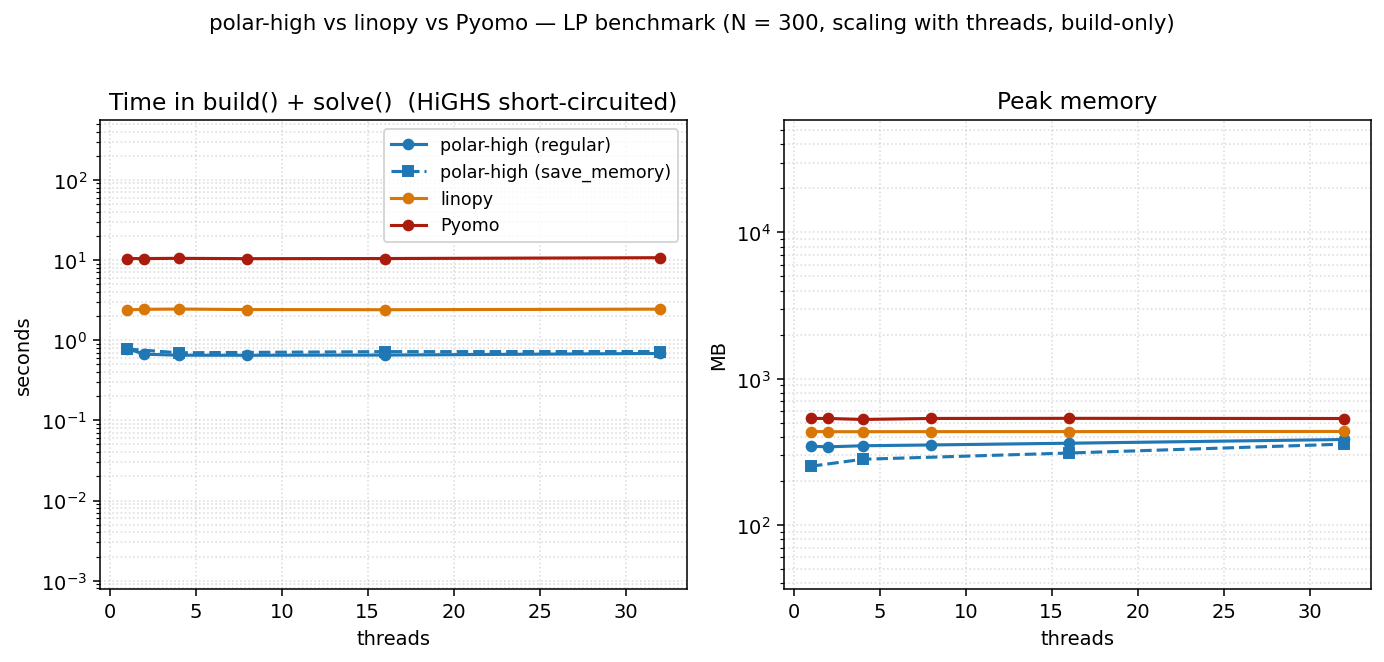
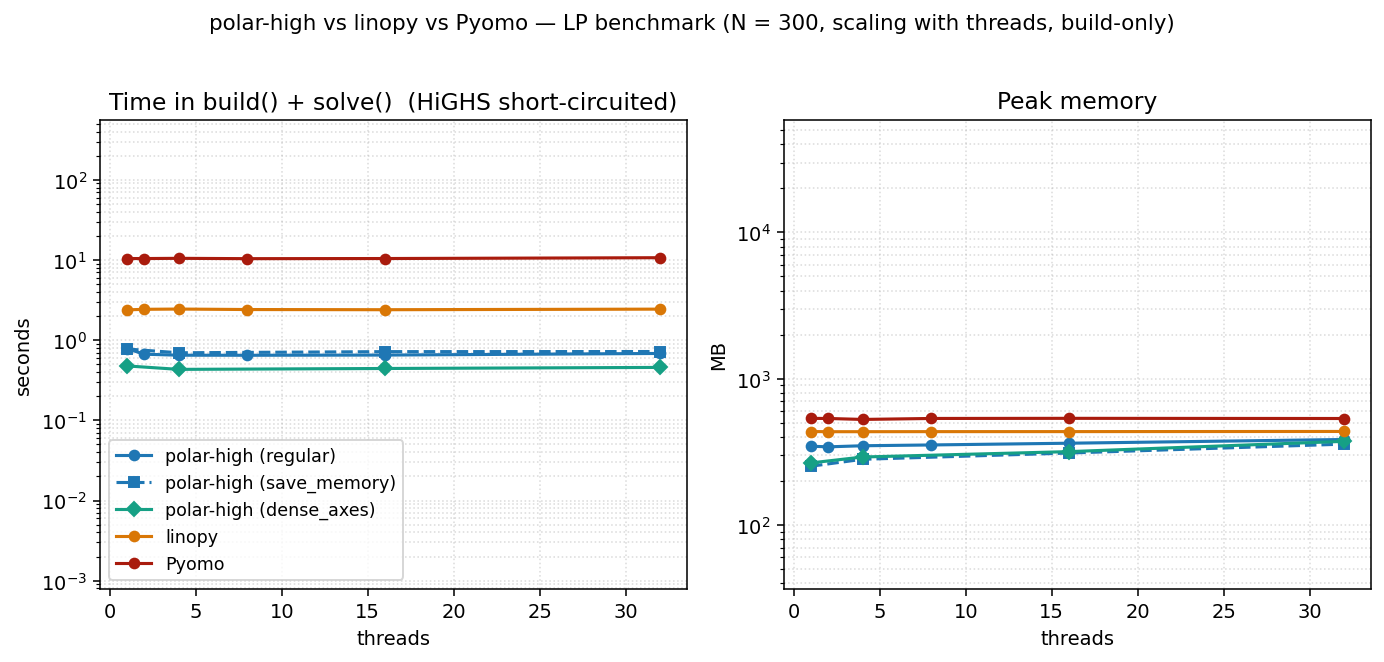
docs(benchmark): refresh polar regular + plots against v2.4.1
polar regular and polar_da measured at v2.4.1; polar_sm, linopy and
Pyomo numbers stay at their previous values (re-runs queued
separately). The most visible shift is at dense full-solve N=3000
where the v2.4.x autoscale memory-bounding work lowered polar
regular's peak from 38.1 GB to 33.2 GB (post-trim 6.6 GB → 1.0 GB)
at a small wall-time cost (135 s → 148 s). Other cells move within
±5 %, and the save_memory trade-off shape is refreshed accordingly
(+59 % time / −15 % peak on the full HiGHS solve at this N=3000
cell, down from the previously published +75 % / −26 %).

Network threading on polar regular: speedup at N=10000 ticks up from
1.35× to 1.40× (single-thread 53.8 s → 53.7 s, 32-thread 40.0 s →
38.5 s); intermediate-N rows refreshed similarly.

polar_da (dense_axes contract) lands within run-to-run noise of
polar regular at every headline cell on these specific models, so
the plots show it overlapping polar regular and no separate row is
added to the tables. The line is kept in the figures for
transparency.

diff --git a/docs/compare/benchmark.md b/docs/compare/benchmark.md
@@ -42,7 +42,7 @@ shows both side by side. At N=3000 (an 18 M-variable LP):
 
 | | total time | peak | p50 during solve | post-trim |
 |---|---:|---:|---:|---:|
-| polar-high (regular, default) | 86 s | 16.1 GB | 10.9 GB | 5.9 GB |
+| polar-high (regular, default) | 87 s | 16.4 GB | 10.9 GB | 6.2 GB |
 | polar-high (save_memory=True) | 131 s | 15.1 GB | 10.3 GB | 6.2 GB |
 | linopy (io_api="lp") | 300 s | 23.7 GB | 2.0 GB | 6.0 GB |
 | Pyomo | caps at N=1000 | 4.6 GB at N=1000 | 3.8 GB at N=1000 | 1.9 GB at N=1000 |
@@ -52,8 +52,8 @@ accounting the OOM killer would use against a memory budget. See
 *Measuring memory* below for the column choices. Both polar modes
 finish 2.3×–3.5× faster than linopy on this column with peak ~30 %
 below linopy; on this cell the `regular` vs `save_memory` swap costs
-+52 % time for −6 % peak, a much milder shape than on the full HiGHS
-solve where it's +75 % time for −26 % peak (see *Two modes*). Pyomo's
++51 % time for −8 % peak, a much milder shape than on the full HiGHS
+solve where it's +59 % time for −15 % peak (see *Two modes*). Pyomo's
 per-coefficient Python overhead makes it unable to keep up past
 N≈1000 in our 10-minute timeout.
 
@@ -81,9 +81,9 @@ final `h.run()`:
    MPS file, the original `Highs` instance is cleared and disposed,
    `malloc_trim(0)` is called to return glibc's freed arenas to the
    OS, and a fresh `Highs` is created and `readModel`'d from the
-   file. This costs ~+100 s wall time at N=3000 dense full-solve
+   file. This costs ~+90 s wall time at N=3000 dense full-solve
    but eliminates the allocator slack `addRows` leaves behind when
-   fed a model incrementally — net ~10 GB lower peak in that cell.
+   fed a model incrementally — net ~5 GB lower peak in that cell.
    The spill file lands in the system temp dir (`$TMPDIR` / `/tmp`)
    by default; pass `solve(save_memory=True, tmp_dir=...)` to redirect
    it to a specific volume (e.g. the same filesystem as the workspace,
@@ -110,22 +110,22 @@ free `h.run()` re-solve from the previous basis.
 
 | cell | mode | total time | peak | p50 | post-trim |
 |---|---|---:|---:|---:|---:|
-| dense build-only N=3000 | regular | 86 s | 16.1 GB | 10.9 GB | 5.9 GB |
+| dense build-only N=3000 | regular | 87 s | 16.4 GB | 10.9 GB | 6.2 GB |
 | dense build-only N=3000 | save_memory | 131 s | 15.1 GB | 10.3 GB | 6.2 GB |
-| dense full-solve N=3000 | regular | 135 s | 38.1 GB | 14.9 GB | 6.6 GB |
+| dense full-solve N=3000 | regular | 148 s | 33.2 GB | 14.9 GB | 1.0 GB |
 | dense full-solve N=3000 | save_memory | 236 s | 28.1 GB | 12.0 GB | 5.9 GB |
-| network N=10000 build-only | regular | 53 s | 11.6 GB | 7.1 GB | 5.5 GB |
+| network N=10000 build-only | regular | 51 s | 11.5 GB | 7.0 GB | 5.4 GB |
 | network N=10000 build-only | save_memory | 94 s | 12.2 GB | 6.9 GB | 5.1 GB |
 
 The trade-off shape varies cell by cell. On the dense full HiGHS
 solve the MPS disk roundtrip pays off — HiGHS's `addRows` allocator
 slack is the bulk of peak when it's doing real work, and the
-roundtrip flushes it (−26 % peak for +75 % time). On the dense
-build-only column the gap is smaller (−6 % peak for +52 % time)
+roundtrip flushes it (−15 % peak for +59 % time). On the dense
+build-only column the gap is smaller (−8 % peak for +51 % time)
 because HiGHS only allocates the matrix once before the time-limit
 short-circuit fires, so there's little slack to flush. On the
 network LP at N=10000 the disk roundtrip costs more peak than it
-saves (+5 % peak for +75 % time) — HiGHS's transient allocations
+saves (+6 % peak for +84 % time) — HiGHS's transient allocations
 during this build-only solve are smaller than the temporary MPS
 buffer the roundtrip allocates.
 
@@ -250,11 +250,11 @@ threading does start paying as N grows:
 
 | N | polar 1 thread | polar 32 threads | speedup |
 |---:|---:|---:|---:|
-| 100 | 0.30 s | 0.29 s | 1.06× |
-| 300 | 1.04 s | 0.86 s | 1.21× |
-| 1 000 | 3.91 s | 3.16 s | 1.24× |
-| 3 000 | 13.5 s | 10.9 s | 1.24× |
-| 10 000 | 53.8 s | 40.0 s | **1.35×** |
+| 100 | 0.30 s | 0.29 s | 1.02× |
+| 300 | 1.00 s | 0.84 s | 1.20× |
+| 1 000 | 3.99 s | 3.24 s | 1.23× |
+| 3 000 | 13.3 s | 10.7 s | 1.24× |
+| 10 000 | 53.7 s | 38.5 s | **1.40×** |
 
 The default (`regular` mode, save_memory=False) is what these
 numbers use; in `save_memory=True` the MPS write+read disk
@@ -309,12 +309,12 @@ At N=10 000 (≈ 8.4 M variables, ≈ 10 M constraints):
 
 | | total time | peak | p50 during solve | post-trim |
 |---|---:|---:|---:|---:|
-| polar-high (regular, default) | 53 s | 11.6 GB | 7.1 GB | 5.5 GB |
+| polar-high (regular, default) | 51 s | 11.5 GB | 7.0 GB | 5.4 GB |
 | polar-high (save_memory=True) | 94 s | 12.2 GB | 6.9 GB | 5.1 GB |
 | linopy (io_api="lp") | 165 s | 14.1 GB | 1.6 GB | 4.0 GB |
 | Pyomo | timed out at N=3000 | — | — | — |
 
-polar (regular) is ~3.1× faster than linopy at this cell with peak
+polar (regular) is ~3.2× faster than linopy at this cell with peak
 ~18 % below linopy. `save_memory=True` doesn't help here — it ends
 up slightly *higher* on peak than `regular` and ~1.8× slower —
 because the MPS-roundtrip's transient buffer costs more than
